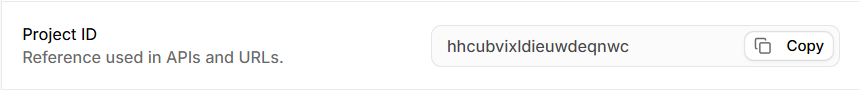
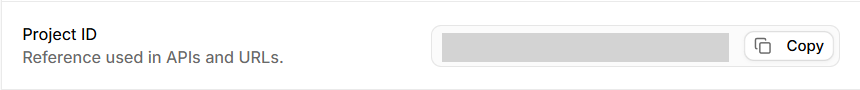
Publish privacy-reviewed GitHub and LINE tutorial crops

Changed region(s): [[0.514, 0.3556, 0.8465, 0.6889]]

diff --git a/src/tutorial-media.ts b/src/tutorial-media.ts
@@ -6,7 +6,7 @@ const appDocs='https://docs.github.com/en/apps/using-github-apps/installing-a-gi
 function suppliedProjectTutorial(page:string,part:string):TutorialShot|null{
  if(!['supabaseUrl','automatic'].includes(page)&&!(page==='supabase-create'&&['open','created'].includes(part))&&!(page==='supabase-signup'&&part==='owner'))return null;
  const toolbar:TutorialFrame={file:'supabase-projects-toolbar.png',box:[85,70,14,27],caption:'Projects：建立或選擇自己的專案',instruction:'登入後進入自己的 Projects。沒有本次專用專案才按 New project；已有專案則直接開啟。此圖不含帳號身分資訊，請在自己的後台另外核對登入帳號與組織。'};
- const card:TutorialFrame={file:'supabase-project-example-card.png',box:[2,5,96,40],caption:'選擇本次專用專案',instruction:'專案啟動後，點選你自己的專用專案卡片。圖中的 heart-cards 只是拍攝範例，不是要求你選的平台專案，也不會自動填入你的設定。'};
+ const card:TutorialFrame={file:'supabase-project-example-card.png',box:[2,5,96,40],caption:'選擇本次專用專案',instruction:'專案啟動後，點選你自己的專用專案卡片。圖中的專案名稱已遮蔽。'};
  const settings:TutorialFrame={file:'supabase-project-settings-nav.png',box:[1,91,98,7.5],caption:'Project Settings',instruction:'進入自己的專案後，展開左側導覽選單，選 Project Settings。這是專案設定入口，不是 Token 表單裡的權限選項。'};
  const general:TutorialFrame={file:'supabase-general-nav.png',box:[4,56,92,17],caption:'Configuration → General',instruction:'在 Project Settings 的 Configuration 下選 General，再找 Project ID。Project ID 是專案代碼，不是任何金鑰。'};
  const projectId:TutorialFrame={file:'supabase-project-id.png',box:[49,24,49,53],caption:'複製 Project ID，組成 Project URL',instruction:'在 General 的 Project ID 按 Copy。完整 Project URL 是 https:// 加上你自己的 Project ID，再加 .supabase.co。也可從 Connect 核對網址；不要貼 supabase.com/dashboard 後台網址，不要照抄截圖裡的代碼。'};
@@ -15,13 +15,22 @@ function suppliedProjectTutorial(page:string,part:string):TutorialShot|null{
  const secrets:TutorialFrame={file:'supabase-functions-secrets-nav.png',box:[4,72,92,20],caption:'Edge Functions → Secrets',instruction:'Edge Functions 的左側可切換 Functions 與 Secrets。Secrets 用來保存後端使用的值；它不是 Account → Access Tokens，也不是設定 Token 權限的畫面。'};
  const emptyForm:TutorialFrame={file:'supabase-secrets-empty-form.png',box:[59,43,39,36],caption:'空白 Secrets 表單：必要時才補填',instruction:'一般流程由系統配置 LINE Secrets。只有部署結果提示需要補填時，才使用本頁：Name 填建置結果列出的完整變數名稱（含專案前綴），Value 填對應值，再按 Save。CLIENT_KEY 是畫面佔位範例；不要照填，也不要把 Supabase Access Token 填到這裡。'};
  const frames=page==='automatic'?[edge,secrets,emptyForm]:page==='supabase-signup'?[toolbar,card,settings]:page==='supabase-create'?(part==='open'?[toolbar,card,settings]:[card,settings,general]):part==='open'?[card,settings,general]:part==='connect'?[settings,general,projectId]:[general,projectId,fillUrl];
- return {...frames[0],frames,label:'Supabase 桌面版實際截圖',source:page==='automatic'?'https://supabase.com/docs/guides/functions/secrets':'https://supabase.com/docs/guides/getting-started/api-keys',credit:'使用者提供 · 2026-11-05',note:'原圖僅裁切，未重繪介面；已排除帳號列、用量及既有函式／Secret 清單。範例專案與 Project ID 不可照抄。這些是專案後台位置，不是 Token 權限選擇器。'};
+ return {...frames[0],frames,label:'Supabase 桌面版實際截圖',source:page==='automatic'?'https://supabase.com/docs/guides/functions/secrets':'https://supabase.com/docs/guides/getting-started/api-keys',credit:'使用者提供 · 2026-11-05',note:'實拍已裁切，專案名稱與 Project ID 已遮蔽。帳號列、用量及既有函式與 Secret 清單已裁除。'};
 }
 export function tutorialMedia(unit:{key?:string}):TutorialShot|null{
  const [page,part]=String(unit.key||'').split('#')[0].split('.');
  const projectTutorial=suppliedProjectTutorial(page,part);if(projectTutorial)return projectTutorial;
  const mobile=(file:string,box:TutorialShot['box'],source=githubDocs):TutorialShot=>({file,label:'手機版實際截圖',source,credit:'Aprico 拍攝 · 2026-11-05',box,note:'畫面中的公開帳號是拍攝範例；請使用自己的專案。'});
  const official=(file:string,box:TutorialShot['box'],source:string,credit:string,note='官方範例截圖，可能是桌面版；手機版位置與語言可能不同。請勿照抄範例值。'):TutorialShot=>({file,label:'官方實際截圖',box,source,credit,note});
+ const supplied=(frame:TutorialFrame,source:string,frames?:TutorialFrame[]):TutorialShot=>({...frame,frames,source,label:'桌面版實際截圖',credit:'使用者提供 · 已裁切',note:'畫面只保留本步驟需要的操作區域。'});
+ if(page==='github-signup'){
+  const entry:TutorialFrame={file:'github-signup-entry.png',box:[44,20,49,62],caption:'在 GitHub 首頁找 Sign up',instruction:'新帳號點 Sign up。已有帳號可點旁邊的 Sign in。'};
+  const form:TutorialFrame={file:'github-signup-form.png',box:[5,20,76,12],caption:'選擇註冊方式',instruction:'可用自己的 Google 或 Apple 帳號。也可往下使用 Email，依表單填寫並完成驗證。'};
+  const google:TutorialFrame={file:'github-google-chooser-heading.png',box:[10,60,63,36],caption:'使用 Google 時，確認要繼續使用 GitHub',instruction:'在 Google 帳號選擇頁選自己的帳號。為保護個資，這張圖只保留頁面標題。使用 Email 註冊的人可依 GitHub 提示完成信箱驗證。'};
+  const finish:TutorialFrame={...form,box:[5,38,76,58],caption:'完成註冊與驗證後返回',instruction:'依 GitHub 畫面完成驗證。登入後核對是自己的帳號，再回 Aprico 繼續。'};
+  const frames=part==='account'?[entry,form,google]:[entry,form,finish];
+  return supplied(frames[0],'https://docs.github.com/en/account-and-profile/how-tos/account-management/creating-an-account-on-github',frames);
+ }
  if(page==='supabase-signup'&&['open','account','verified'].includes(part)){
   const signup={...mobile('supabase-signup-mobile.png',[18,28,78,6],'https://supabase.com/dashboard/sign-up'),credit:'Aprico 拍攝 · Supabase 公開註冊頁',note:'公開表單以手機視窗擷取。驗證郵件或授權確認畫面會因登入方式而異，圖中只示範表單入口。'};
   return {...signup,frames:[
@@ -30,7 +39,9 @@ export function tutorialMedia(unit:{key?:string}):TutorialShot|null{
    {...signup,box:[63,78,15,5],caption:'已有帳號可從 Sign in 登入',instruction:'已有帳號就按 Sign in。完成登入後回 Aprico 確認，再到下一關建立或選擇專案。'}]};
  }
  if(page==='github-create'){
-  if(['public','readme','created'].includes(part))return mobile('github-create-options-mobile.jpg',part==='readme'?[14,37.5,78,14]:part==='created'?[56,81.5,37,6]:[14,23.5,78,13]);
+  if(part==='open')return supplied({file:'github-new-menu.png',box:[4,26,91,12]},githubDocs);
+  if(part==='public'||part==='created')return supplied({file:'github-repository-options.png',box:part==='public'?[79,7,18,12]:[78,86,21,13]},githubDocs);
+  if(part==='readme')return mobile('github-create-options-mobile.jpg',[14,37.5,78,14]);
   return mobile('github-create-mobile.jpg',part==='name'?[14,36,78,8]:[14,27,78,8]);
  }
  if(page==='githubRepo')return {...mobile('github-repository-mobile.jpg',[4,4,90,16]),note:'這張實拍用來辨識 Repository 頁面。手機瀏覽器的網址列不在網頁截圖內；請用瀏覽器選單複製網址，不要按 Code 複製 .git。'};
@@ -49,6 +60,13 @@ export function tutorialMedia(unit:{key?:string}):TutorialShot|null{
   return {...frames[0],frames,label:'Supabase 桌面版實際截圖',source:reviewing?'https://supabase.com/blog/scope-your-personal-access-tokens#building-a-token-for-the-job':'https://supabase.com/docs/guides/platform/personal-access-tokens',credit:reviewing?'使用者提供與 Supabase 官方範例':'使用者提供 · 2026-11-05',note:'桌面版介面實拍。展開後的個別權限下拉選項依文字步驟操作。官方核對頁示範畫面配置，請以自己的專案、期限及 Aprico 所需權限為準。'};
  }
  if(page==='lineSecret')return official('line-channel-secret.png',[1,14,80,70],'https://developers.line.biz/en/docs/messaging-api/verify-webhook-signature/','LINE Developers / LY Corporation','紅框是 Channel secret 與複製圖示。右邊 Issue 是重新發行，不要為了複製而按它。圖中的字串為官方範例。');
+ if(page==='lineToken'){
+  const tab:TutorialFrame={file:'line-channel-tabs.png',box:[27,9,26,62],caption:'開啟 Messaging API 分頁',instruction:'在本次 OA 的 Messaging API Channel 點選 Messaging API，往下捲到頁尾。'};
+  const label:TutorialFrame={file:'line-long-lived-token-label.png',box:[1,61,96,35],caption:'找到長效 Access Token',instruction:'找 Channel access token (long-lived)，確認與先前的 Channel ID 和 Channel Secret 屬於同一個 Channel。'};
+  const copy:TutorialFrame={file:'line-long-lived-token-controls.png',box:[1,20,17,58],caption:'複製既有 Token，填回 Aprico',instruction:'已有 Token 時按左側複製圖示。首次建立才按 Issue。右側 Reissue 是重發，會讓舊 Token 失效。'};
+  const frames=[tab,label,copy];
+  return supplied(frames[0],'https://developers.line.biz/en/docs/basics/channel-access-token/#long-lived-channel-access-token',frames);
+ }
  if(page==='messagingChannelId'){
   const id=official('line-channel-id.png',[21,69,24,6],'https://developers.line.biz/en/faq/tags/console/','LINE Developers / LY Corporation');
   return {...id,frames:[
@@ -56,7 +74,13 @@ export function tutorialMedia(unit:{key?:string}):TutorialShot|null{
    {...id,caption:'在 Basic settings 複製 Channel ID',instruction:'找到 Basic settings 下的 Channel ID，按數字右側的複製圖示。使用本次 OA 的 Messaging API Channel ID。'},
    {...id,caption:'回 Aprico 貼上並保存',instruction:'在上方欄位貼上剛複製的數字，按保存。圖中的全零編號是官方範例。'}]};
  }
- if(page==='webhook')return official('line-webhook.png',part==='switch'?[2,72,33,23]:[2,20,60,42],'https://developers.line.biz/en/docs/messaging-api/building-bot/','LINE Developers / LY Corporation');
+ if(page==='webhook'){
+  const settings=official('line-webhook.png',part==='switch'?[2,72,33,23]:[2,20,60,42],'https://developers.line.biz/en/docs/messaging-api/building-bot/','LINE Developers / LY Corporation');
+  return {...settings,credit:'LINE Developers 與使用者提供',frames:[
+   {file:'line-channel-tabs.png',box:[27,9,26,62],caption:'開啟本次 Channel 的 Messaging API',instruction:'在 LINE Developers 進入自己的 Messaging API Channel，找到 Webhook settings。'},
+   {...settings,caption:'檢查 Webhook URL 與 Use webhook',instruction:'部署後確認 Webhook URL 對應本次專案，再開啟 Use webhook。'},
+   {file:'line-webhook-verify-controls.png',box:[4,12,39,78],caption:'按 Verify 核對部署結果',instruction:'按 Verify，看到成功後回 Aprico 繼續用手機實測。'}]};
+ }
  if(page==='liff'){
   const list=official('line-liff-list.webp',[35,40,23,14],'https://developers.line.biz/en/docs/liff/registering-liff-apps/','LINE Developers / LY Corporation','清單是官方截圖，尺寸比較是官方示意圖。新增表單與個人 App 的實測畫面仍待補。');
   return {...list,frames:[

diff --git a/tests/journey.test.ts b/tests/journey.test.ts
@@ -112,10 +112,11 @@ test('real screenshot tutorials use existing local assets, attributable sources 
  }
  assert.equal(tutorialMedia({key:'supabaseToken.input'})?.label,'Supabase 桌面版實際截圖');
  assert.equal(tutorialMedia({key:'githubToken.input'}),null);
- assert.equal(tutorialMedia({key:'lineToken.input'}),null);
+ assert.deepEqual(tutorialMedia({key:'lineToken.input'})?.frames?.map(f=>f.file),['line-channel-tabs.png','line-long-lived-token-label.png','line-long-lived-token-controls.png']);
  assert.equal(tutorialMedia({key:'unknown.input'}),null);
  assert.equal(shotCamera(375,844,[0,0,100,100],false),'0 0 375 844');
  assert.equal(tutorialMedia({key:'webhook.switch#00000000-0000-0000-0000-000000000001'})?.file,'line-webhook.png');
+ assert.equal(tutorialMedia({key:'github-signup.account'})?.frames?.[1].file,'github-signup-form.png');
 });
 
 test('Supabase token walkthrough uses distinct actual frames without claiming to show generated credentials',()=>{

diff --git a/docs/REAL-TUTORIALS.md b/docs/REAL-TUTORIALS.md
@@ -123,9 +123,8 @@ Secrets input is 1920 × 931. No artwork generation or UI text replacement occur
 
 Visual inspection confirmed no browser chrome, account/org header, usage figures,
 other project cards, existing function rows, existing secret names or values in
-these crops. The example card name and Project ID identify the already public
-example project, and instructions explicitly forbid copying them into a customer's
-setup. Project ID is not a credential; it is used to form the project API URL.
+these crops. The project card name and Project ID are covered with opaque pixels.
+The Project ID label and Copy button remain visible to explain how to find the project URL.
 New asset dimensions are tested so full untrimmed screenshots fail verification.
 
 The Project URL lesson now uses Project Settings → General → Project ID, with
